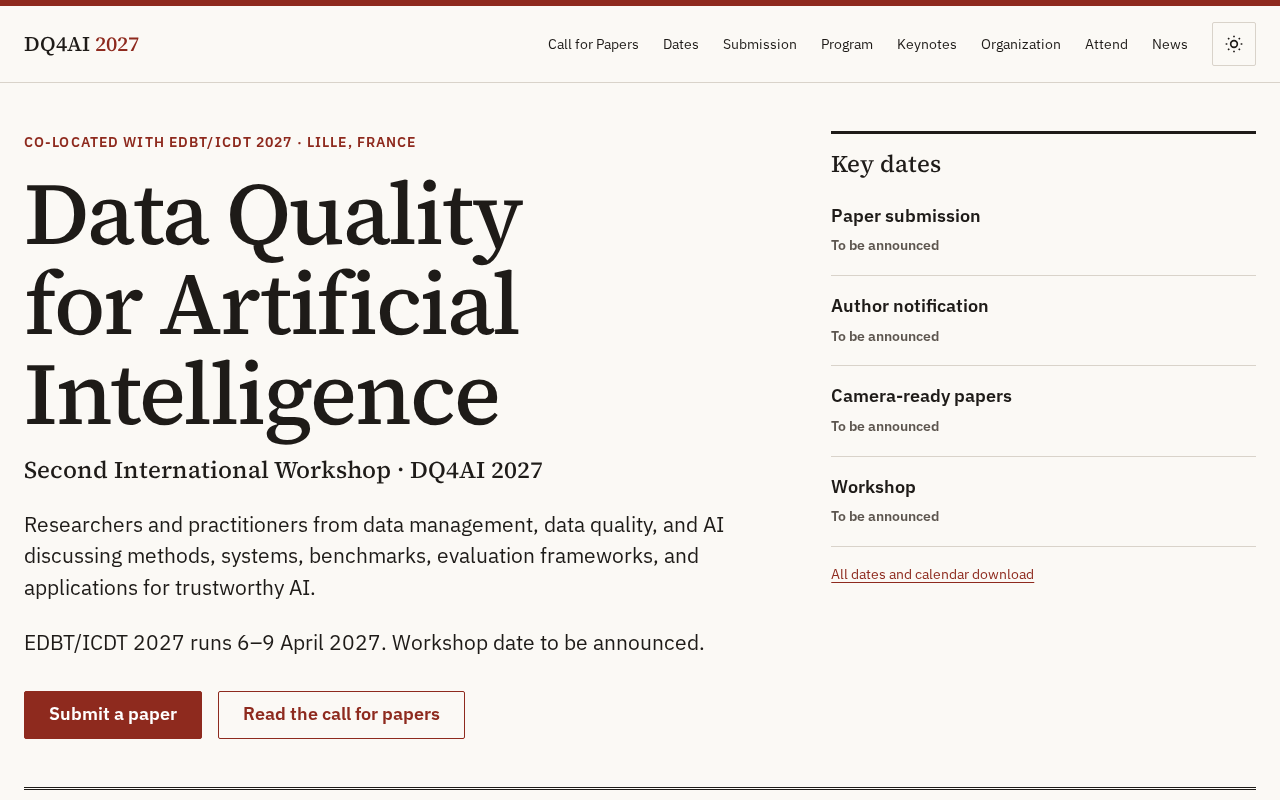
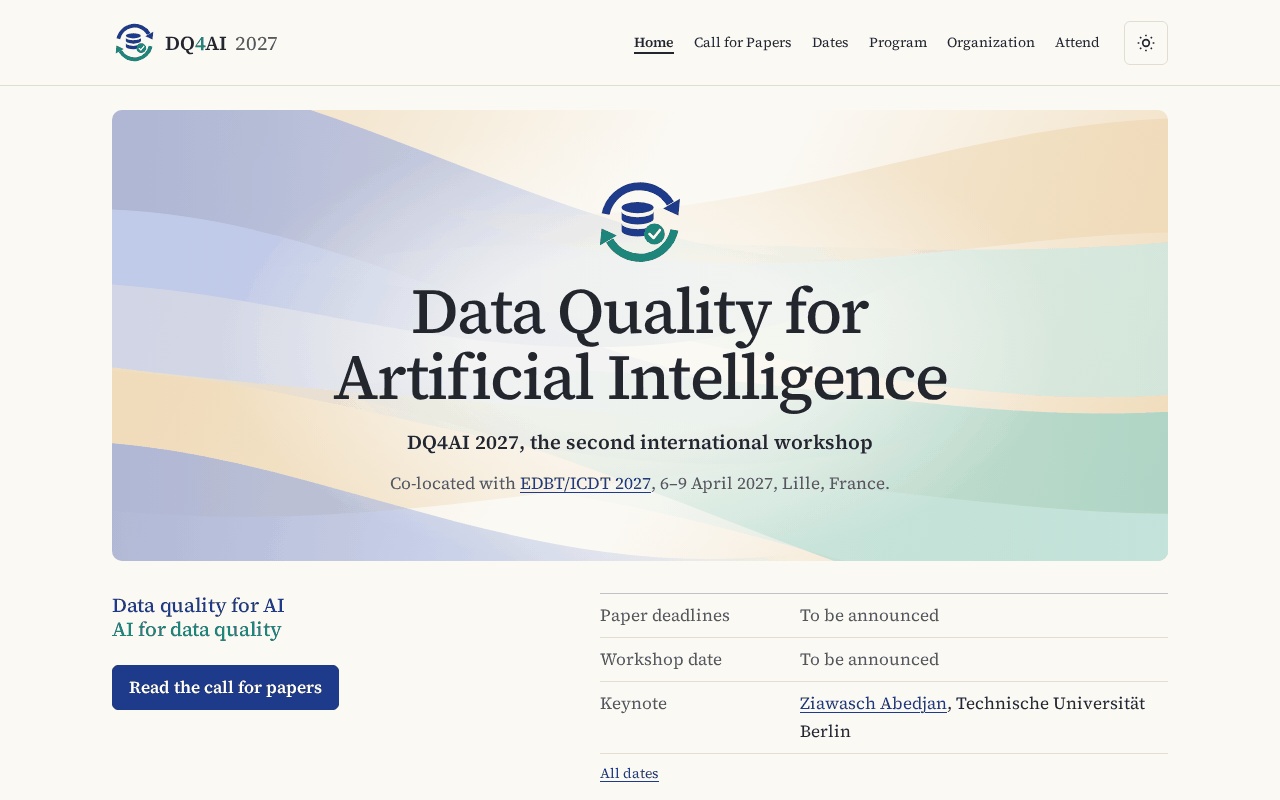
docs: describe the simpler site and show the new home page in the README
- Add "The site": what the home page shows, which pages are in the menu
  and which moved to the footer, and how the call for papers folds its
  details.
- Replace the screenshot with the home page's new banner, at the same
  1280x800 size, reduced to 256 colours (110 KB).
- Name both photos of Lille and the fonts in the license line, matching
  LICENSE.

diff --git a/README.md b/README.md
@@ -8,7 +8,22 @@ with EDBT/ICDT 2027 in Lille, France.
 
 **Live site:** <https://dq4ai.github.io/dq4ai-2027/>
 
-![Home page of the DQ4AI 2027 website](docs/screenshot.png)
+![Home page of the DQ4AI 2027 website: a soft banner of navy and teal ribbons behind the title, then the key facts](docs/screenshot.png)
+
+## The site
+
+The site shows a little at a time, so a first visit invites rather than overwhelms.
+
+- **Home** opens with a banner: the title, the edition and where it meets, over ribbons of navy and
+  teal that are the logo's two directions (data quality for AI, AI for data quality). Below it are one
+  button, three key facts (next deadline, workshop date, keynote), the topics as tags, one paragraph on
+  the goal, and the latest news in one line.
+- **Menu:** Home, Call for Papers, Dates, Program, Organization and Attend. Accepted Papers joins
+  once papers are published.
+- **Footer:** Submission, Keynotes, News, Policies, Previous Editions, the call as plain text, the
+  deadlines calendar and the news feed.
+- **Call for Papers** leads with the goal and the topics. The full scope and each paper category open
+  on a click, and facts not yet known are named in one sentence rather than a row each.
 
 ## Update the content
 
@@ -42,4 +57,5 @@ pnpm i && pnpm dev
 
 ## License
 
-Code under MIT, content under CC BY 4.0, with one photo under CC BY-SA 4.0. See [LICENSE](LICENSE).
+Code under MIT, content under CC BY 4.0, except two photos of Lille under CC BY-SA (4.0 and 3.0) and
+the fonts under the SIL Open Font License. See [LICENSE](LICENSE).
